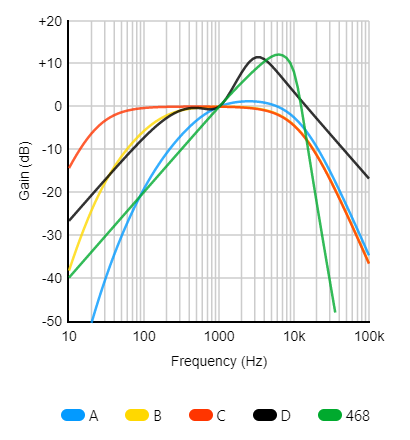
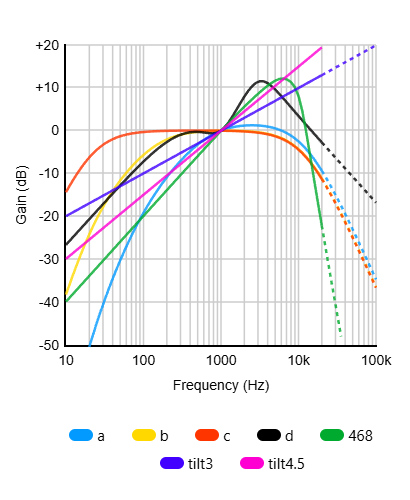
update documentation

diff --git a/README.md b/README.md
@@ -32,7 +32,7 @@ What users are saying:
 + Logarithmic, linear and perceptual (Bark and Mel) frequency scales, with customizable range
 + Visualization of discrete FFT frequencies or up to 240 frequency bands (supports ANSI and equal-tempered octave bands)
 + Decibel and linear amplitude scales, with customizable sensitivity
-+ Optional A, B, C, D and ITU-R 468 weighting filters
++ Optional weighting filters (A, B, C and D-weighting, ITU-R 468, 3dB and 4.5dB per octave tilt)
 + Additional effects: LED bars, radial spectrum, variable opacity bars, mirroring and reflection
 + Choose from 5 built-in color themes or easily add your own!
 + Fullscreen support, ready for retina / HiDPI displays
@@ -157,10 +157,10 @@ property                              | type      | default | notes
 [`linearBoost`](#linearboost)         | *number*  | `1` |
 [`lineWidth`](#linewidth)             | *number*  | `1` |
 [`loRes`](#lores)                     | *boolean* | `false` |
-[`maxDecibels`](#maxdecibels)         | *number*  | `-25` |
+[`maxDecibels`](#maxdecibels)         | *number*  | `-30` |
 [`maxFPS`](#maxfps)                   | *number*  | `0` |
 [`maxFreq`](#maxfreq)                 | *number*  | `22000` |
-[`minDecibels`](#mindecibels)         | *number*  | `-85` |
+[`minDecibels`](#mindecibels)         | *number*  | `-90` |
 [`minFreq`](#minfreq)                 | *number*  | `20` |
 [`mirror`](#mirror)                   | *number*  | `0` |
 [`mode`](#mode)                       | *string*  | `"bars"` |
@@ -182,14 +182,14 @@ property                              | type      | default | notes
 [`showLedMask`](#showledmask)         | *boolean* | `true` |
 [`showScaleX`](#showscalex)           | *string*  | `"freqs"` |
 [`showScaleY`](#showscaley)           | *string*  | `"off"` |
-[`smoothing`](#smoothing)             | *number*  | `0.5` |
+[`smoothing`](#smoothing)             | *number*  | `0.7` |
 [`source`](#source)                   | *AudioNode*, *HTMLMediaElement* or *MediaStream* | *none* | constructor only
 [`spinSpeed`](#spinspeed)             | *number*  | `0` |
 [`spreadGradient`](#spreadgradient)   | *boolean* | `false` |
 [`start`](#start)                     | *boolean* | `true` | constructor only
 [`useCanvas`](#usecanvas)             | *boolean* | `true` |
 [`volume`](#volume)                   | *number*  | `1` |
-[`weightingFilter`](#weightingFilter) | *string*  | `""` |
+[`weightingFilter`](#weightingFilter) | *string*  | `"none"` |
 [`width`](#width)                     | *number* or *undefined* | `undefined` |
 
 ### Constructor-specific options
@@ -1193,27 +1193,28 @@ Please note that changing the volume on the audio element will affect the amplit
 
 *Available since v4.0.0*
 
-[Weighting filter](https://en.wikipedia.org/wiki/Weighting_filter) applied to analyzer data, for spectrum visualization only.
-
-<img src="img/weigthing-filters-curves.png" class="align-right">
-
-**Value:** a *string*. The default value is `""`.
-
-Value   | [Constant](#constants) | Description
---------|------------------------|---------------
-`""`    | `FILTER_NONE` | No weighting applied (default)
-`"A"`   | `FILTER_A`    | A-weighting
-`"B"`   | `FILTER_B`    | B-weighting
-`"C"`   | `FILTER_C`    | C-weighting
-`"D"`   | `FILTER_D`    | D-weighting
-`"468"` | `FILTER_468`  | ITU-R 468 weighting
-
-?> Weighting filters only affect the visualization, **NOT** the audio output.
-
+[Weighting filter](https://en.wikipedia.org/wiki/Weighting_filter) applied to analyzer data, for spectrum visualization.
 Each filter applies a different curve of gain/attenuation to specific frequency ranges, but the general idea is to adjust the
 visualization of frequencies to the sensitivity of the human ear.
 
-Refer to the [weighting filters viewer tool](/tools/weighting-filters.html) for response tables and an interactive version of the curves graph seen below.
+**Value:** a *string*. The default value is `"none"`.
+
+<img src="img/weigthing-filters-curves.png" class="align-right">
+
+Value       | [Constant](#constants) | Description
+------------|------------------------|---------------
+`"none"`    | `FILTER_NONE`   | No weighting applied (default)
+`"a"`       | `FILTER_A`      | A-weighting
+`"b"`       | `FILTER_B`      | B-weighting
+`"c"`       | `FILTER_C`      | C-weighting
+`"d"`       | `FILTER_D`      | D-weighting
+`"468"`     | `FILTER_468`    | ITU-R 468 weighting
+`"tilt3"`   | `FILTER_TILT3`  | 3dB per octave tilt
+`"tilt4.5"` | `FILTER_TILT45` | 4.5dB per octave tilt
+
+?> Refer to the [**weighting filters viewer tool**](/tools/weighting-filters.html) for filter response tables and an interactive version of the graph seen above.
+
+!> Weighting filters only affect the spectrum visualization, **NOT** the audio output.
 
 ### `width`
 
